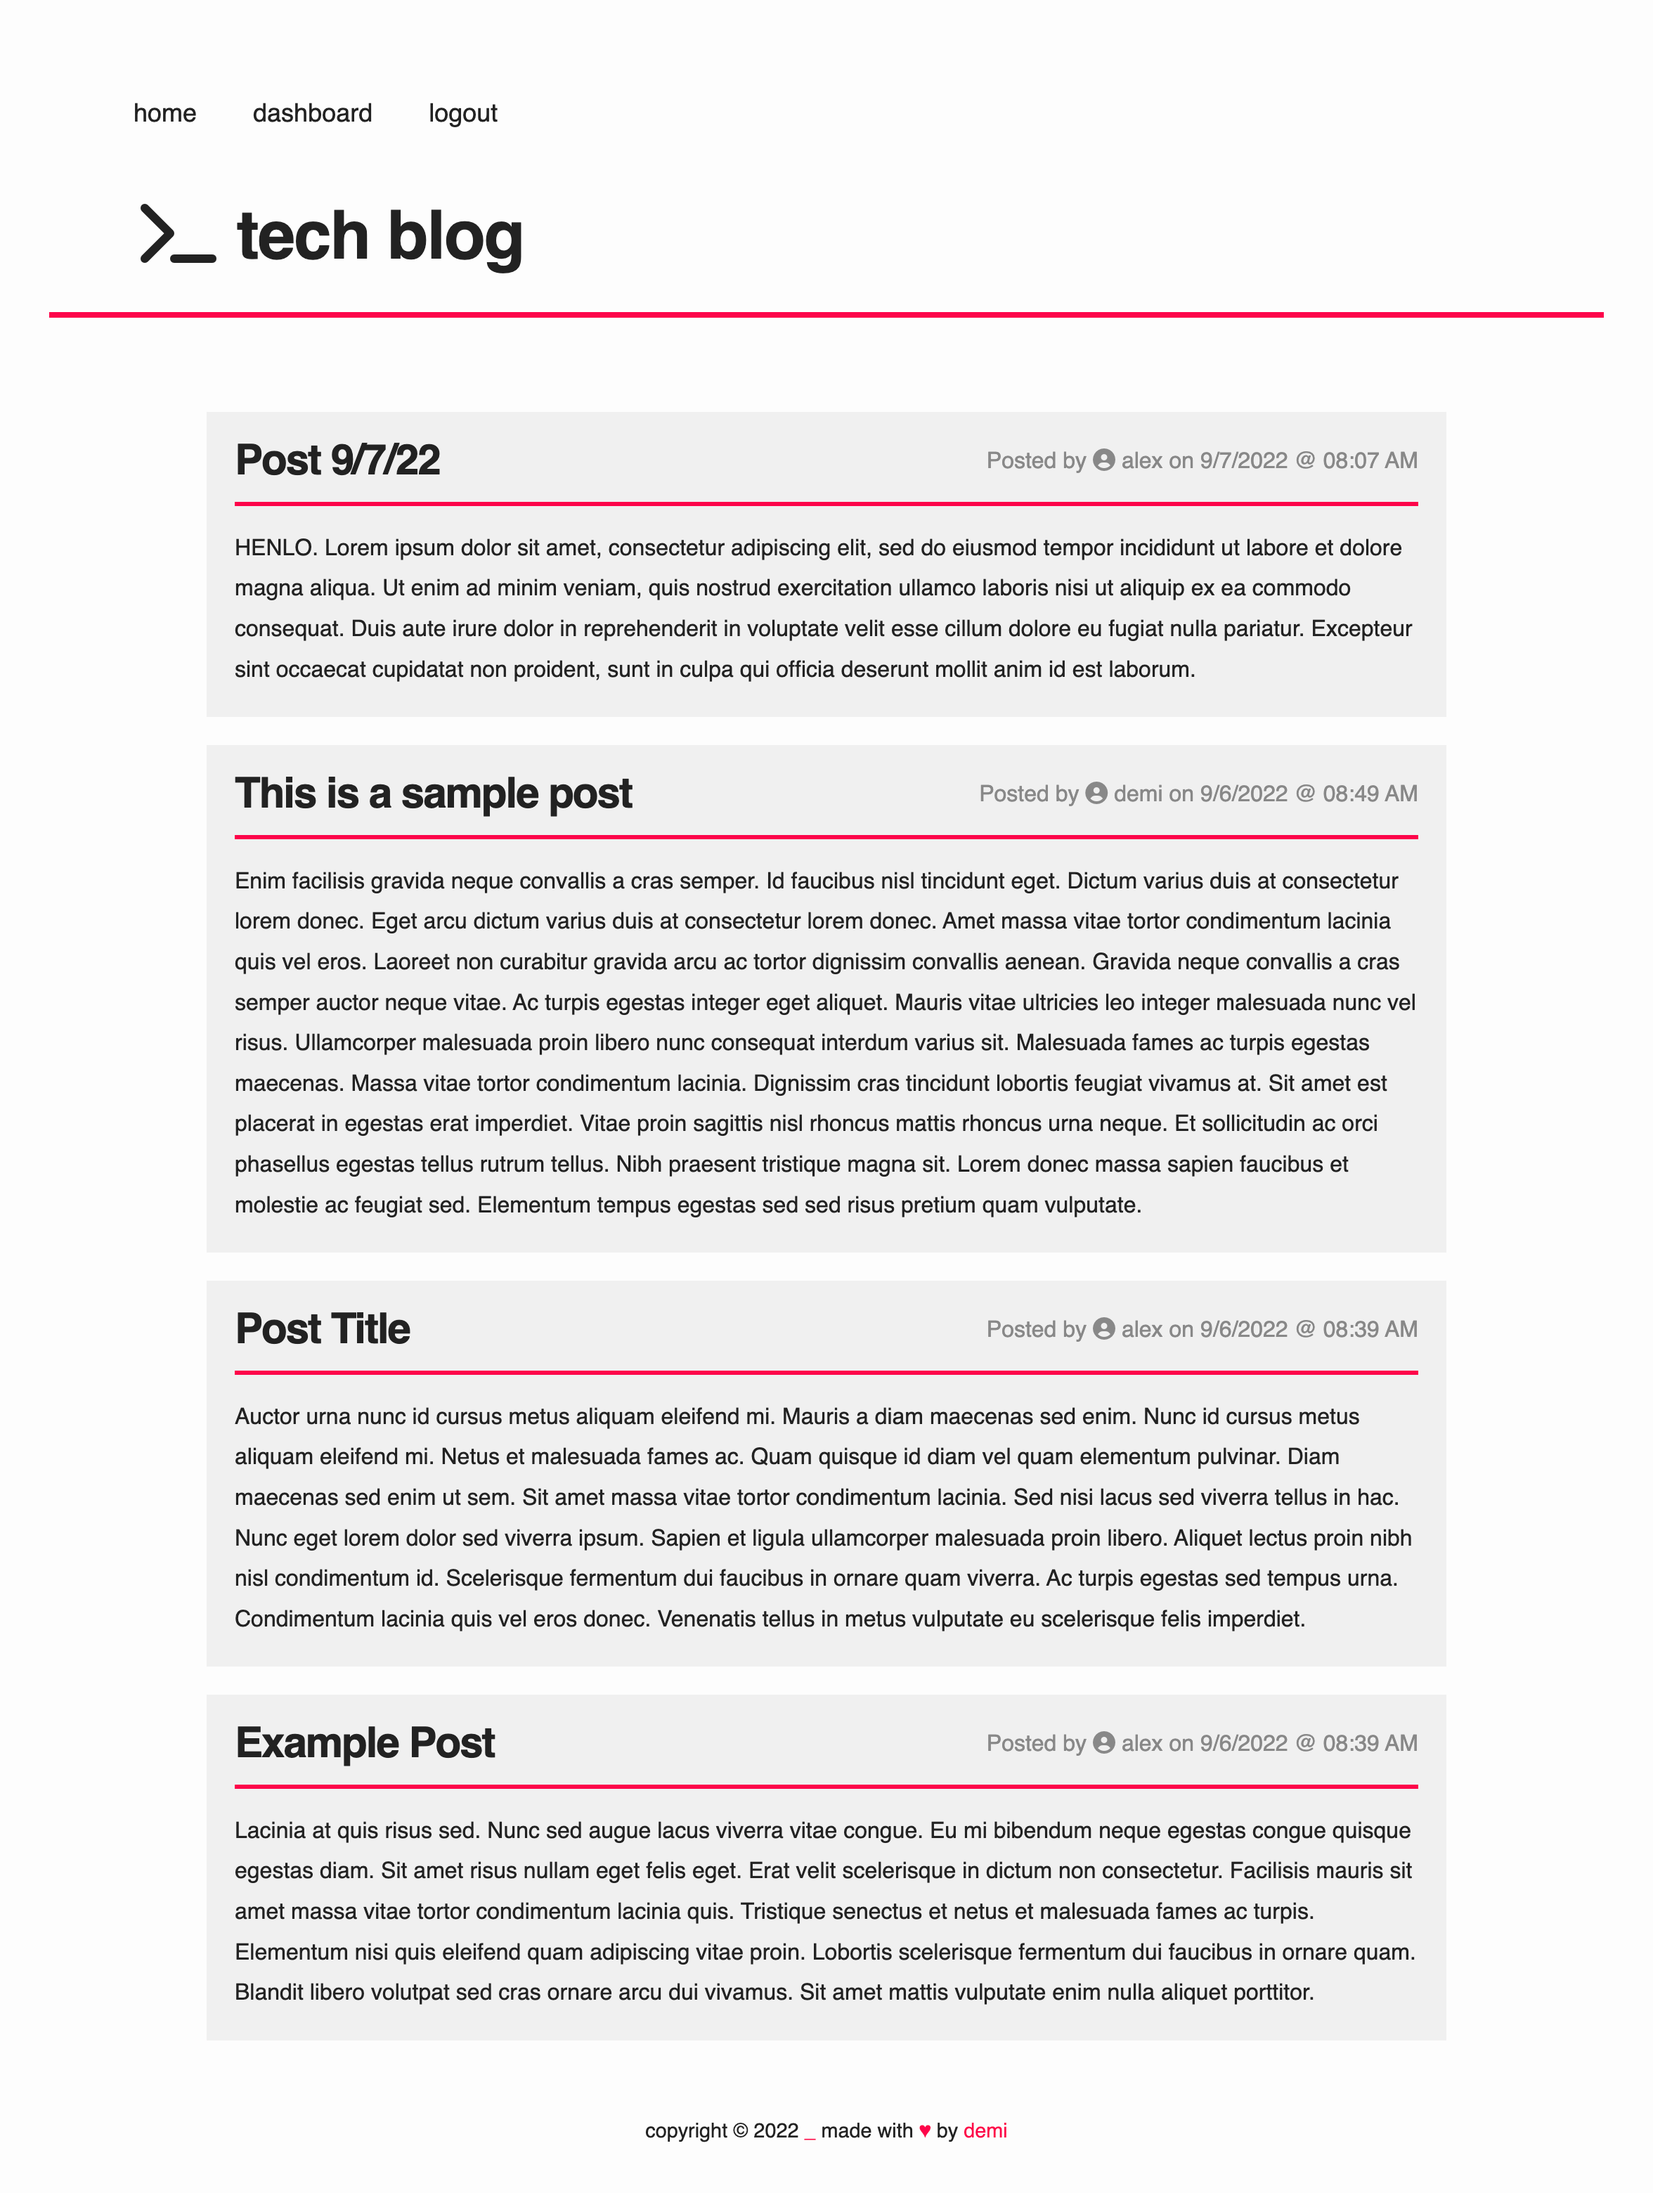
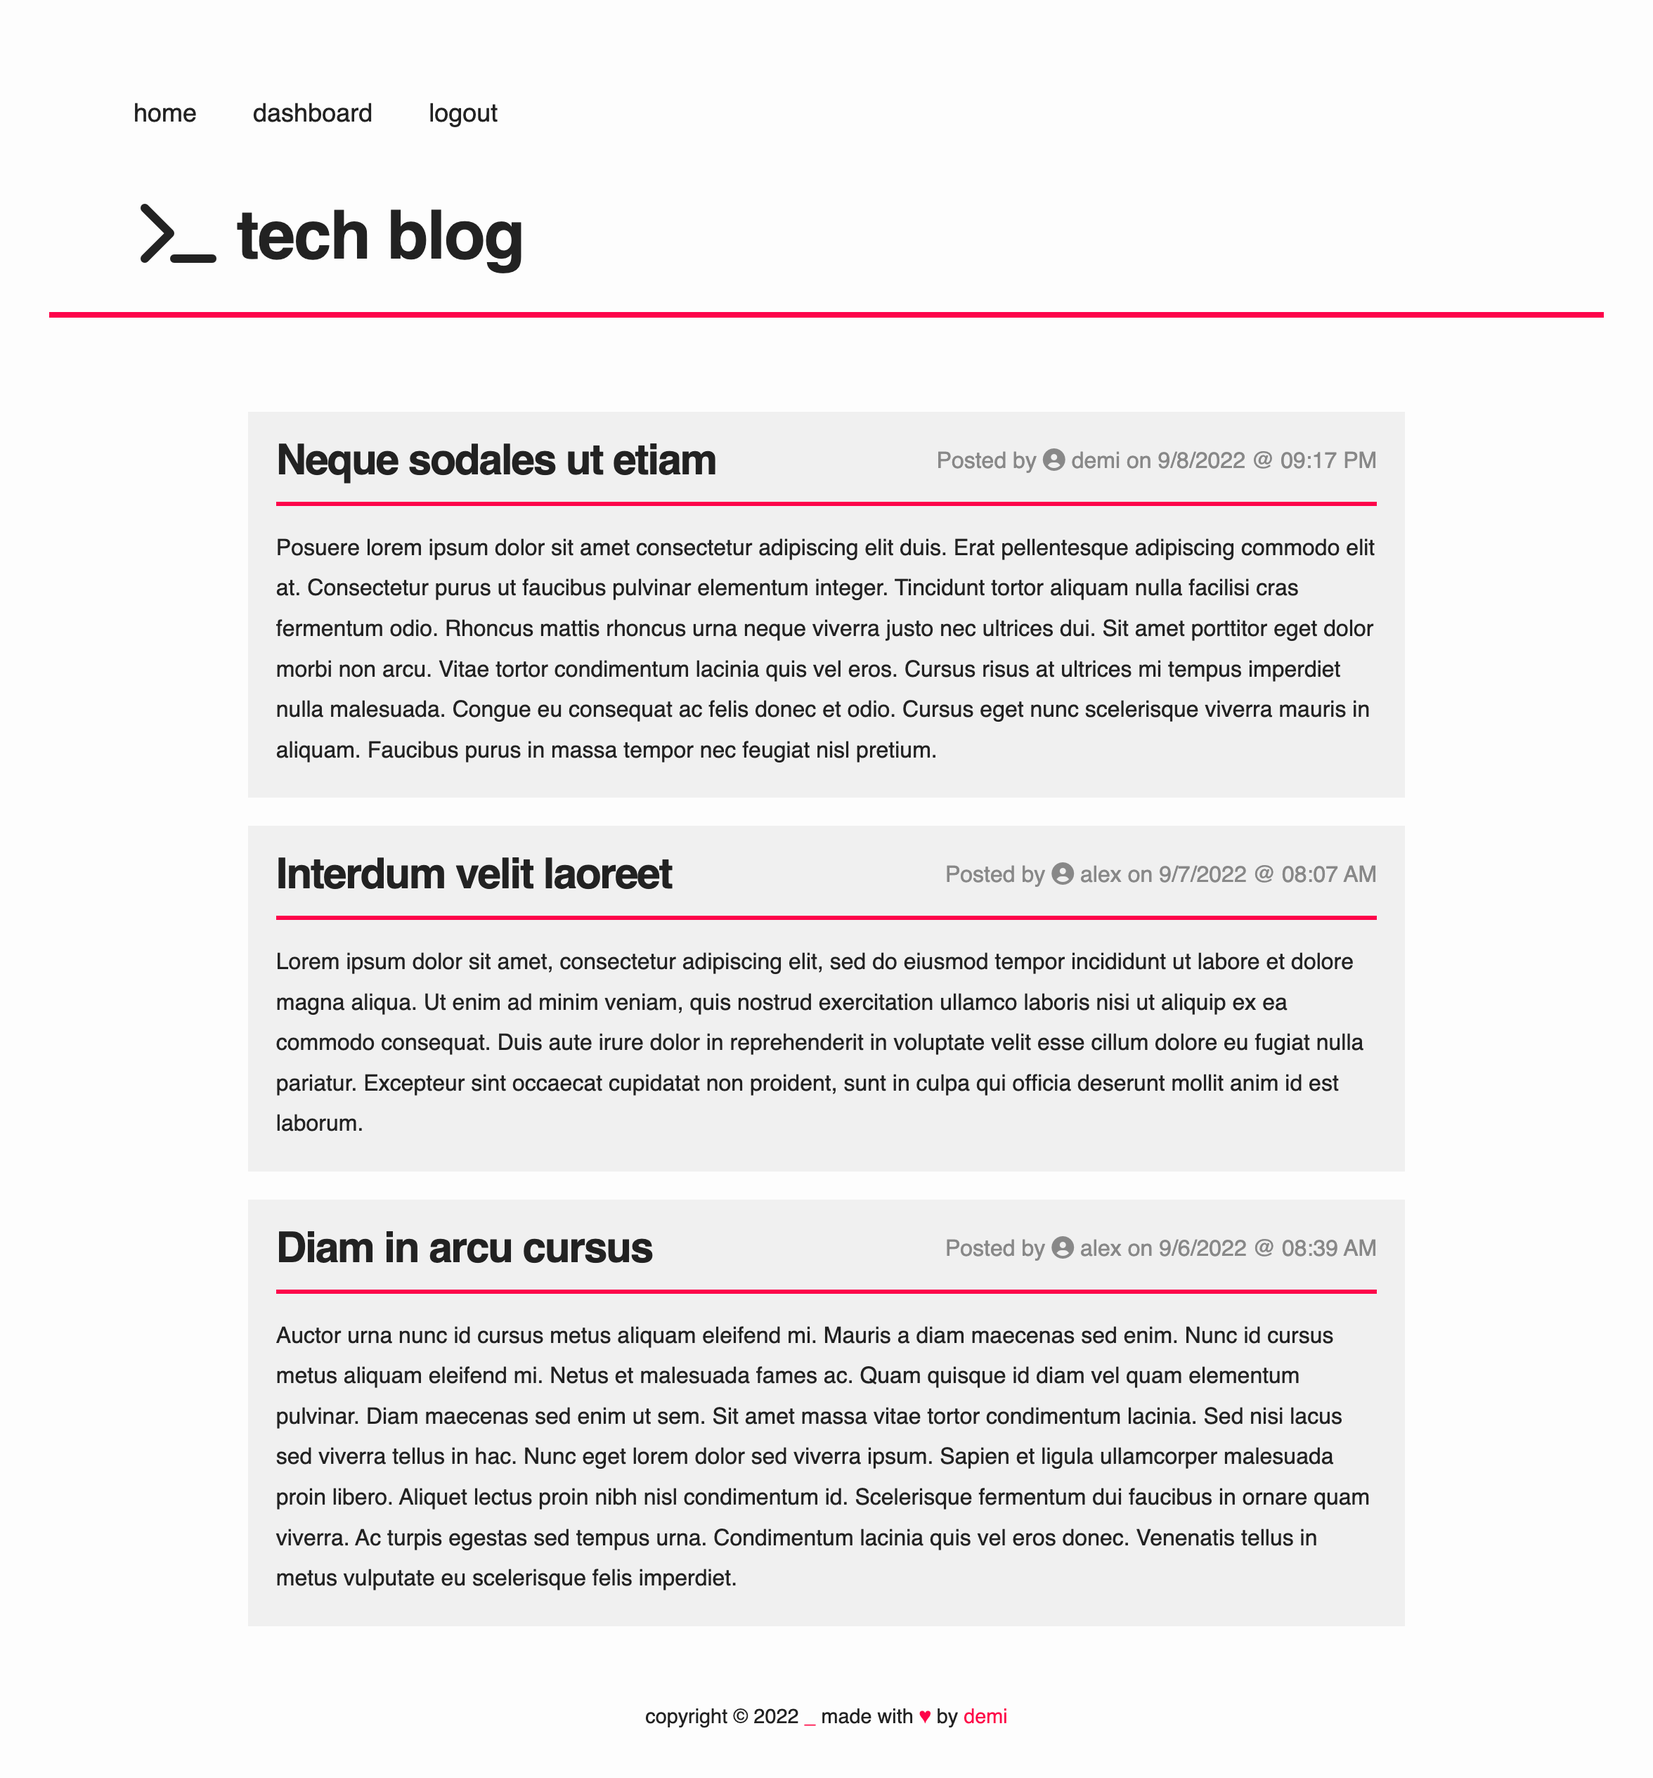
organize & refactor code, update README.md

diff --git a/server.js b/server.js
@@ -1,15 +1,12 @@
 const path = require('path');
 const express = require('express');
-const sequelize = require('./config/connection');
-const routes = require('./controllers');
-const helpers = require('./utils/helpers');
-
-// set up handlebars.js
 const exphbs = require('express-handlebars');
-const hbs = exphbs.create({ helpers });
-
 const session = require('express-session');
 const SequelizeStore = require('connect-session-sequelize')(session.Store);
+
+const routes = require('./controllers');
+const sequelize = require('./config/connection');
+const helpers = require('./utils/helpers');
 
 const app = express();
 const PORT = process.env.PORT || 3001;
@@ -28,16 +25,18 @@ const sess = {
 };
 
 app.use(session(sess));
+
+const hbs = exphbs.create({ helpers });
+
+app.engine('handlebars', hbs.engine);
+app.set('view engine', 'handlebars');
+
 app.use(express.json());
 app.use(express.urlencoded({ extended: true }));
 app.use(express.static(path.join(__dirname, 'public')));
 
 // turn on routes
 app.use(routes);
-
-// set up handlebars.js
-app.engine('handlebars', hbs.engine);
-app.set('view engine', 'handlebars');
 
 // turn on connection to db and server
 sequelize.sync({ force: false }).then(() => {

diff --git a/controllers/dashboard-routes.js b/controllers/dashboard-routes.js
@@ -2,6 +2,7 @@ const router = require('express').Router();
 const { Post, User, Comment } = require('../models');
 const withAuth = require('../utils/auth');
 
+// render dashboard menu & load user posts if any
 router.get('/', withAuth, (req, res) => {
     Post.findAll({
         where: {
@@ -36,7 +37,7 @@ router.get('/', withAuth, (req, res) => {
     });
 });
 
-// edit a single post
+// render edit post template
 router.get('/edit/:id', withAuth, (req, res) => {
     Post.findOne({
         where: {

diff --git a/public/stylesheets/style.css b/public/stylesheets/style.css
@@ -21,13 +21,9 @@ body, html {
     line-height: 1.8em;
 }
 
-.wrapper {
-    margin: 0 auto;
-}
-
 .main-content {
     margin: 0 auto;
-    width: 75%;
+    width: 70%;
 }
 
 .content {
@@ -83,7 +79,6 @@ header nav ul li {
 h1 {
     border-bottom: 4px solid var(--first);
     font-size: 48px;
-    font-weight: bold;
     text-transform: lowercase;
     letter-spacing: -1px;
     padding: 0 0 32px 62px;

diff --git a/controllers/api/post-routes.js b/controllers/api/post-routes.js
@@ -4,7 +4,6 @@ const withAuth = require('../../utils/auth');
 
 // GET request all posts
 router.get('/', (req, res) => {
-    console.log('======================');
     Post.findAll({
         // query configuration
         attributes: ['id', 'title', 'post_text', 'created_at'],

diff --git a/models/Comment.js b/models/Comment.js
@@ -12,7 +12,7 @@ Comment.init(
             autoIncrement: true
         },
         comment_text: {
-            type: DataTypes.STRING,
+            type: DataTypes.TEXT,
             allowNull: false,
             validate: {
                 len: [1]

diff --git a/controllers/index.js b/controllers/index.js
@@ -1,4 +1,5 @@
 const router = require('express').Router();
+
 const homeRoutes = require('./home-routes');
 const apiRoutes = require('./api');
 const dashboardRoutes = require('./dashboard-routes');

diff --git a/README.md b/README.md
@@ -16,12 +16,33 @@ The purpose of this project was to built a CMS-style blog site - similar to a Wo
 ### Live View:
 [https://frozen-sierra-30429.herokuapp.com/](https://frozen-sierra-30429.herokuapp.com/)
 
+## Installation
+1. To install this application, `git clone` this repository, or download the `.zip` file in the dropdown after clicking the green ‘Code’ button at the top of this repository—as long as it is in your local branch.
+2. Ensure Node.js is installed in your operating system.
+3. Create a `.env` file in the root directory with the following information, and include your MySQL username (DB_USER) and password (DB_PASSWORD) between the single quotes:
+```
+DB_NAME='tech_blog_db'
+DB_USER=''
+DB_PASSWORD=''
+```
+4. Install ***all*** of the npm packages listed above via command-line in terminal.
+5. Initialize MySQL by running `mysql -u root -p`, and enter your password when prompted. Once loaded, enter `SOURCE db/schema.sql;` to create the database. Exit MySQL by entering `quit;` in terminal.
+6. The application can be accessed by visiting `http://localhost:3001` in the browser after running the following command:
+```
+node server.js
+```
+7. [Insomnia](https://insomnia.rest/) or [Postman](https://www.postman.com/) can be used to check the backend functionality.
+
 ## Usage
-Feel free to use the `guest` account with these credentials to explore this web application:
+Feel free to use the `guest` account with these credentials to explore the functionality of this web application:
 
-> **Username:** guest
+> **Username:** guest **Password:** password
 
-> **Password:** password
+An unregistered user will be able to navigate to the `homepage`, `login`, or `signup` links, as well as view blog posts without being able to leave comments.
+
+On the other hand, a registered user will have access to the `dashboard`, where they could create, edit, or delete posts. In addition, a registered user will have to ability to leave comments on blog posts. A `logout` button will be displayed in the navigation upon login.
+
+The user's session will automatically expire after 10 minutes of idle activity.
 
 ## Questions
 For any questions about this repository, please contact me at [demi.h@me.com](mailto:demi.h@me.com).
